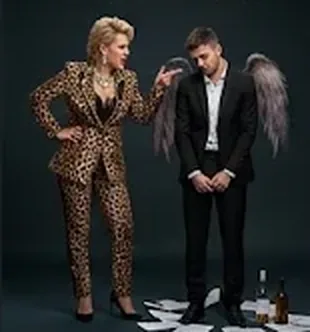
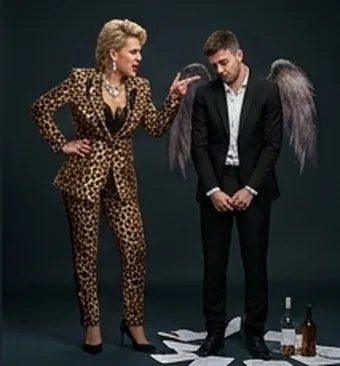
81: фигуры «Архетипов» из оригинала Gemini (1408×768) — чётче, 340 точек шириной

diff --git a/js/ui/fold.js b/js/ui/fold.js
@@ -31,12 +31,13 @@ function remember(id, open) {
 }
 
 /**
- * id — что помнить; icon — значок шапки; title, lead — название и строка в свёрнутом виде; status — узел справа
+ * id — что помнить; icon — значок шапки; title, lead — название и строка в свёрнутом виде; teaser — весёлая
+ * фраза после названия через тире (карточка дня); status — узел справа
  * (идущий счёт); points — баллы дня за этот раздел (score/): больше нуля — раздел сделан: стрелка светится золотом,
  * после названия зелёным «+N балл» (владелец 14.11.2026, сборка 57); body — содержимое раздела. Вернёт { node, thumb, isOpen() }: thumb — место
  * для рисунка в шапке; onToggle(open) зовётся при каждом раскрытии и сворачивании (и сразу при создании).
  */
-export function foldCard({ id, cls = '', icon, title, lead = '', status = null, points = 0, body = [], onToggle = null }) {
+export function foldCard({ id, cls = '', icon, title, teaser = '', lead = '', status = null, points = 0, body = [], onToggle = null }) {
   let open = isOpen(id);
   const thumb = h('span', { class: 'fold__thumb', 'aria-hidden': 'true' });
   const inner = h('div', { class: 'fold__inner' }, ...body);
@@ -47,6 +48,8 @@ export function foldCard({ id, cls = '', icon, title, lead = '', status = null, 
       // Баллы — сразу за последним словом названия, в той же строке (владелец 15.11.2026: «далеко от текста»)
       h('span', { class: 'fold__eyebrow' }, svg(icon, 'fold__icon'),
         h('span', { class: 'caps fold__title' }, title,
+          // «ЗАДАНИЕ ДНЯ — Это шутка или магия?» (владелец 15.11.2026): фраза сразу за подписью через тире
+          teaser ? h('span', { class: 'fold__teaser' }, ` — ${teaser}`) : null,
           points > 0 ? h('span', { class: 'fold__plus' }, ` +${points} ${plural(points, 'plural.points')}`) : null)),
       lead ? h('span', { class: 'fold__lead' }, lead) : null,
     ),

diff --git a/_stand.html b/_stand.html
@@ -1,0 +1,28 @@
+<!doctype html><html lang="ru"><head><meta charset="utf-8"><meta name="viewport" content="width=device-width,initial-scale=1">
+<link rel="stylesheet" href="styles/tokens.css">
+<link rel="stylesheet" href="styles/side-man.css">
+<link rel="stylesheet" href="styles/fonts.css">
+<link rel="stylesheet" href="styles/base.css">
+<link rel="stylesheet" href="styles/components/button.css">
+<link rel="stylesheet" href="styles/components/card.css">
+<link rel="stylesheet" href="styles/components/controls.css">
+<link rel="stylesheet" href="styles/components/overlay.css">
+<link rel="stylesheet" href="styles/components/ask.css">
+<link rel="stylesheet" href="styles/components/nav.css">
+<link rel="stylesheet" href="styles/components/progress.css">
+<link rel="stylesheet" href="styles/components/heels.css">
+<link rel="stylesheet" href="styles/components/fold.css">
+<link rel="stylesheet" href="styles/components/plate.css">
+<link rel="stylesheet" href="styles/components/flags.css">
+</head><body><main class="screen" style="padding:16px;display:grid;gap:16px">
+<div id="a"></div><div id="b"></div><div id="c"></div></main>
+<script type="module">
+import { foldCard } from './js/ui/fold.js';
+import { icons } from './js/ui/icons.js';
+import { h } from './js/core/dom.js';
+const body = [h('h2', { class: 'task__title' }, '«Магия рук»'), h('p', { class: 'task__subtitle' }, 'Тайный ритуал соблазна'), h('p', { class: 'task__text' }, 'Текст задания…')];
+localStorage.clear();
+document.getElementById('a').replaceWith(foldCard({ id: 's1', cls: 'task', icon: icons.crown, title: 'Задание дня', teaser: 'Это шутка или магия?', lead: '«Магия рук»', body }).node);
+document.getElementById('b').replaceWith(foldCard({ id: 's2', cls: 'task', icon: icons.crown, title: 'Задание дня', teaser: 'Подожди... то есть его даже не надо пилить, он сам хочет делать?', lead: '«Табу на тяжести»', points: 3, body: [] }).node);
+document.getElementById('c').replaceWith(foldCard({ id: 's3', cls: 'task', icon: icons.sparkle, title: 'Свободный поток', teaser: 'Глаза боятся, а руки делают...', lead: 'Магия рук · Табу на тяжести · Взгляд Леди', body: [] }).node);
+</script></body></html>

diff --git a/js/program/index.js b/js/program/index.js
@@ -27,6 +27,8 @@ export function weekPlan(week, lang) {
     // Задания — в словах профиля отношений (profile/, владелец 14.11.2026): у каждого из четырёх свои слова
     tasks: w.tasks.map((t) => applyTask(t, currentProfile())),
     flow: w.flow,
+    // Весёлые фразы дней своей практики (сервер: woman/teasers/, владелец 15.11.2026); у задания — task.teaser
+    teasers: w.teasers || [],
     biz: w.biz || null,
     profile: currentProfile(),
     call: w.call,
@@ -81,11 +83,21 @@ export function dayPlan(day, lang) {
     kind,
     task: kind === 'task' ? plan.tasks[n - 1] : null,
     taskIndex: kind === 'task' ? n - 1 : null,
+    teaser: teaserOf(kind, n, plan),
     imsg: imsgOf(week, n, plan.imsgs, lang),
     // Повтор по графику (repeats.js): в дни практики — навыки прошлых недель, к которым пора вернуться
     repeats: repeatsOf(week, n, lang),
     ...plan,
   };
+}
+
+/* Фраза в шапке карточки дня («ЗАДАНИЕ ДНЯ — Это шутка или магия?»): у задания — своя, в дни практики — фразы
+   недели по порядку (день 4 — первая, день 5 — вторая, дальше по кругу). Нет фразы — шапка как раньше. */
+function teaserOf(kind, n, plan) {
+  if (kind === 'task') return plan.tasks[n - 1]?.teaser || '';
+  if (kind !== 'flow' || !plan.teasers.length) return '';
+  const first = Math.min(plan.tasks.length, TASK_DAYS) + 1;
+  return plan.teasers[(n - first) % plan.teasers.length];
 }
 
 function repeatsOf(week, n, lang) {

diff --git a/styles/components/fold.css b/styles/components/fold.css
@@ -118,6 +118,17 @@
   stroke-width: 2.4;
 }
 
+/* Весёлая фраза за подписью карточки дня («ЗАДАНИЕ ДНЯ — Это шутка или магия?», владелец 15.11.2026): обычные
+   буквы, светлее и чуть крупнее заглавной подписи — читается как живая реплика, а подпись остаётся подписью */
+.fold__teaser {
+  text-transform: none;
+  letter-spacing: normal;
+  color: var(--c-text);
+  font-size: var(--fs-sm);
+  font-weight: 500;
+  line-height: 1.35;
+}
+
 /* Внутри строки названия (caps): регистр и разрядка свои, на перенос — вместе с последним словом */
 .fold__plus {
   text-transform: none;

diff --git a/js/screens/today/today.js b/js/screens/today/today.js
@@ -237,6 +237,7 @@ function taskCard(ctx, plan) {
     cls: 'task',
     icon: icons.crown,
     title: t('today.taskLabel'),
+    teaser: plan.teaser,
     lead: '«' + task.title + '»',
     points: taskPoints(ctx.entries, plan.day),
     body: [
@@ -313,6 +314,7 @@ function flowCard(ctx, plan) {
     cls: 'task',
     icon: icons.sparkle,
     title: t('kinds.flow'),
+    teaser: plan.teaser,
     lead: plan.tasks.map((ex) => ex.title).join(' · ') || t('today.flowLead'),
     points: taskPoints(ctx.entries, plan.day),
     body: [

diff --git a/version.js b/version.js
@@ -1,4 +1,4 @@
 /* НОМЕР СБОРКИ — одно место на всё приложение. Каждая выкладка поднимает его на единицу: по нему
    работник (sw.js) понимает, что пора скачать новые файлы, а настройки показывают версию.
    Файл обычный, не модуль: его читают и страница, и работник (importScripts). */
-self.GSL_VERSION = '80';
+self.GSL_VERSION = '81';

diff --git a/files.js b/files.js
@@ -1,6 +1,7 @@
 /* СПИСОК ФАЙЛОВ ДЛЯ КЭША РАБОТНИКА. Пишется командой `npm run files` (tools/files.mjs) — руками не править. */
 self.GSL_FILES = [
   './',
+  './_stand.html',
   './assets/archetypes/man-1.webp',
   './assets/archetypes/man-2.webp',
   './assets/archetypes/man-3.webp',

diff --git a/tools/crop_arch.py b/tools/crop_arch.py
@@ -26,13 +26,17 @@ BOXES = {
 
 os.makedirs(probe, exist_ok=True)
 tiles = []
+# Границы заданы по снимку 1024 точки шириной; у оригинала крупнее — пересчитываются (Gemini, 1408×768 — 15.11.2026)
+k = im.width / 1024
 for name, box in BOXES.items():
-    c = im.crop(box)
+    c = im.crop(tuple(round(v * k) for v in box))
     tiles.append(c)
     if out:
         os.makedirs(out, exist_ok=True)
         # Вдвое крупнее для чёткости на телефоне: увеличение с LANCZOS, сжатие webp
-        big = c.resize((c.width * 2, c.height * 2), Image.LANCZOS)
+        # До ~340 точек шириной (на экране до 170 — чётко и на телефоне с плотным экраном)
+        f = max(1, 340 / c.width)
+        big = c.resize((round(c.width * f), round(c.height * f)), Image.LANCZOS)
         big.save(os.path.join(out, f'{name}.webp'), 'WEBP', quality=82, method=6)
 sheet = Image.new('RGB', (sum(t.width for t in tiles) + 4 * len(tiles), max(t.height for t in tiles)), (255, 0, 255))
 x = 0
